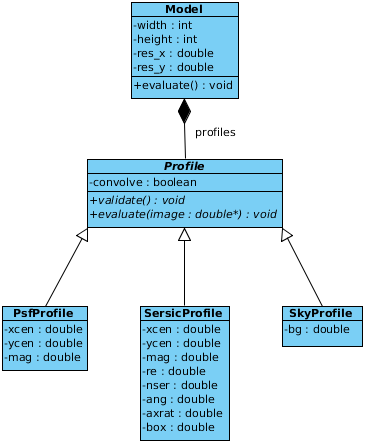
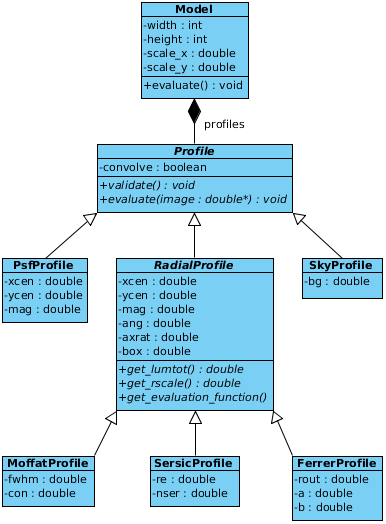
docs: properly documenting all classes
Now all profiles are also shown in the api.rst document. Finally, the types.png
image has been updated to acknowledge the new hierarchy on the package.

diff --git a/profit/radial.h b/profit/radial.h
@@ -37,7 +37,20 @@ namespace profit
 {
 
 class RadialProfile;
-typedef double (*eval_function_t)(const RadialProfile &, double, double, double, bool);
+
+/**
+ * The signature that all evaluation functions must follow.
+ * Each profile uses a different evaluation function and provides it to the
+ * RadialProfile for evaluation.
+ *
+ * @param profile The profile to evaluate
+ * @param x The X profile coordinate to evaluate
+ * @param y The Y profile coordinate to evaluate
+ * @param r The pre-calculated radius of the profile for coordinate `(x,y)`
+ * @param reuse_r Whether the value of `r` is valid (and can be reused) or not.
+ * @return The value of the profile at the given point
+ */
+typedef double (*eval_function_t)(const RadialProfile &profile, double x, double y, double r, bool reuse_r);
 
 /**
  * The case class for radial profiles.
@@ -144,17 +157,103 @@ private:
 
 public:
 
+	/**
+	 * Constructor.
+	 *
+	 * @param model The model this profile belongs to
+	 */
 	RadialProfile(const Model &);
+
+	/*
+	 * ---------------------------------------------
+	 * Pure virtual functions implementations follow
+	 * ---------------------------------------------
+	 */
 	void validate();
 	void evaluate(double *image);
 
-	/* General parameters */
+	/*
+	 * -------------------------
+	 * Profile parameters follow
+	 * -------------------------
+	 */
+
+	/**
+	 * The X center of this profile, in image coordinates
+	 */
 	double xcen;
+
+	/**
+	 * The Y center of this profile, in image coordinates
+	 */
 	double ycen;
+
+	/**
+	 * The magnitude of this profile.
+	 */
 	double mag;
+
+	/**
+	 * The angle by which this profile is rotated. 0 is north, positive is
+	 * counterclockwise.
+	 */
 	double ang;
+
+	/**
+	 * The ratio between the two axes, expressed as minor/major.
+	 */
 	double axrat;
+
+	/**
+	 * The *boxiness* of this profile.
+	 */
 	double box;
+
+	/*
+	 * ---------------------------------------
+	 * Sub-pixel integration parameters follow
+	 * ---------------------------------------
+	 */
+
+	/**
+	 * Whether perform sub-pixel integration or not.
+	 */
+	bool rough;
+
+	/**
+	 * Target accuracy to achieve during sub-pixel integration
+	 */
+	double acc;
+
+	/**
+	 * Radius (relative to `rscale`) under which sub-pixel integration should
+	 * take place
+	 */
+	double rscale_switch;
+
+	/**
+	 * Resolution of the sub-pixel integration: each area to be sub-integrated
+	 * is divided in `resolution * resolution` cells.
+	 */
+	unsigned int resolution;
+
+	/**
+	 * Maximum number of recursions that the sub-pixel integration algorithm
+	 * should undertake.
+	 */
+	unsigned int max_recursions;
+
+	/**
+	 * Whether this profile should adjust the sub-pixel integration parameters
+	 * automatically based on the profile parameters
+	 */
+	bool adjust;
+
+	/**
+	 * Radius (relative to `rscale`) after which the profile is not evaluated
+	 * anymore
+	 */
+	double rscale_max;
 
 	/*
 	 * radius scale, profiles provide it in different ways
@@ -162,16 +261,6 @@ public:
 	 */
 	double rscale;
 
-	/* Used to control the subsampling */
-	bool rough;
-	double acc;
-	double rscale_switch;
-	unsigned int resolution;
-	unsigned int max_recursions;
-	bool adjust;
-
-	/* Used to avoid outer regions */
-	double rscale_max;
 
 #ifdef PROFIT_DEBUG
 	/* record of how many subintegrations we've done */

diff --git a/profit/sky.h b/profit/sky.h
@@ -32,13 +32,42 @@
 namespace profit
 {
 
+/**
+ * A sky profile.
+ *
+ * This profiles simply fills the image with a constant ``bg`` value, which is
+ * given as a parameter.
+ */
 class SkyProfile : public Profile {
 
 public:
+
+	/**
+	 * Constructor
+	 *
+	 * @param model The model this profile belongs to
+	 */
 	SkyProfile(const Model &model);
+
+	/*
+	 * ---------------------------------------------
+	 * Pure virtual functions implementations follow
+	 * ---------------------------------------------
+	 */
 	void validate();
 	void evaluate(double *image);
+
+	/*
+	 * -------------------------
+	 * Profile parameters follow
+	 * -------------------------
+	 */
+
+	/**
+	 * The value to fill the image with.
+	 */
 	double bg;
+
 };
 
 } /* namespace profit */

diff --git a/profit/psf.h b/profit/psf.h
@@ -41,9 +41,26 @@ class PsfProfile : public Profile {
 
 public:
 
+	/**
+	 * Constructor
+	 *
+	 * @param model The model this profile belongs to
+	 */
 	PsfProfile(const Model &);
+
+	/*
+	 * ---------------------------------------------
+	 * Pure virtual functions implementations follow
+	 * ---------------------------------------------
+	 */
 	void validate();
 	void evaluate(double *image);
+
+	/*
+	 * -------------------------
+	 * Profile parameters follow
+	 * -------------------------
+	 */
 
 	/**
 	 * The X center of this profile
@@ -59,6 +76,7 @@ public:
 	 * The magnitude of this profile, based on the model's magnitude
 	 */
 	double mag;
+
 };
 
 } /* namespace profit */

diff --git a/docs/conf.py b/docs/conf.py
@@ -39,6 +39,7 @@ extensions = ['breathe']
 breathe_projects = {
     'libprofit': 'doxygen-output/xml'
 }
+breathe_default_project = 'libprofit'
 
 # Add any paths that contain templates here, relative to this directory.
 templates_path = ['_templates']

diff --git a/profit/ferrer.h b/profit/ferrer.h
@@ -61,8 +61,10 @@ public:
 
 	/**
 	 * Constructor
+	 *
+	 * @param model The model this profile belongs to
 	 */
-	FerrerProfile(const Model &);
+	FerrerProfile(const Model & model);
 
 	/*
 	 * -------------------------

diff --git a/profit/sersic.h b/profit/sersic.h
@@ -65,8 +65,10 @@ public:
 
 	/**
 	 * Constructor
+	 *
+	 * @param model The model this profile belongs to
 	 */
-	SersicProfile(const Model &);
+	SersicProfile(const Model & model);
 
 	/*
 	 * -------------------------

diff --git a/profit/profit.h b/profit/profit.h
@@ -71,7 +71,7 @@ public:
 	/**
 	 * Constructor
 	 *
-	 * \param model The model this profile belongs to
+	 * @param model The model this profile belongs to
 	 */
 	Profile(const Model & model);
 

diff --git a/profit/moffat.h b/profit/moffat.h
@@ -61,6 +61,8 @@ public:
 
 	/**
 	 * Constructor
+	 *
+	 * @param model The model this profile belongs to
 	 */
 	MoffatProfile(const Model &);
 

diff --git a/docs/api.rst b/docs/api.rst
@@ -18,16 +18,32 @@ Exceptions
 .. doxygenclass:: profit::invalid_parameter
    :project: libprofit
 
-Profile class
--------------
-
-.. doxygenclass:: profit::Profile
-   :project: libprofit
-   :members:
-
 Model class
 -----------
 
 .. doxygenclass:: profit::Model
-   :project: libprofit
+   :members:
+
+Profile classes
+---------------
+
+.. doxygenclass:: profit::Profile
+   :members:
+
+.. doxygenclass:: profit::RadialProfile
+   :members:
+
+.. doxygenclass:: profit::SersicProfile
+   :members:
+
+.. doxygenclass:: profit::MoffatProfile
+   :members:
+
+.. doxygenclass:: profit::FerrerProfile
+   :members:
+
+.. doxygenclass:: profit::PsfProfile
+   :members:
+
+.. doxygenclass:: profit::SkyProfile
    :members:
